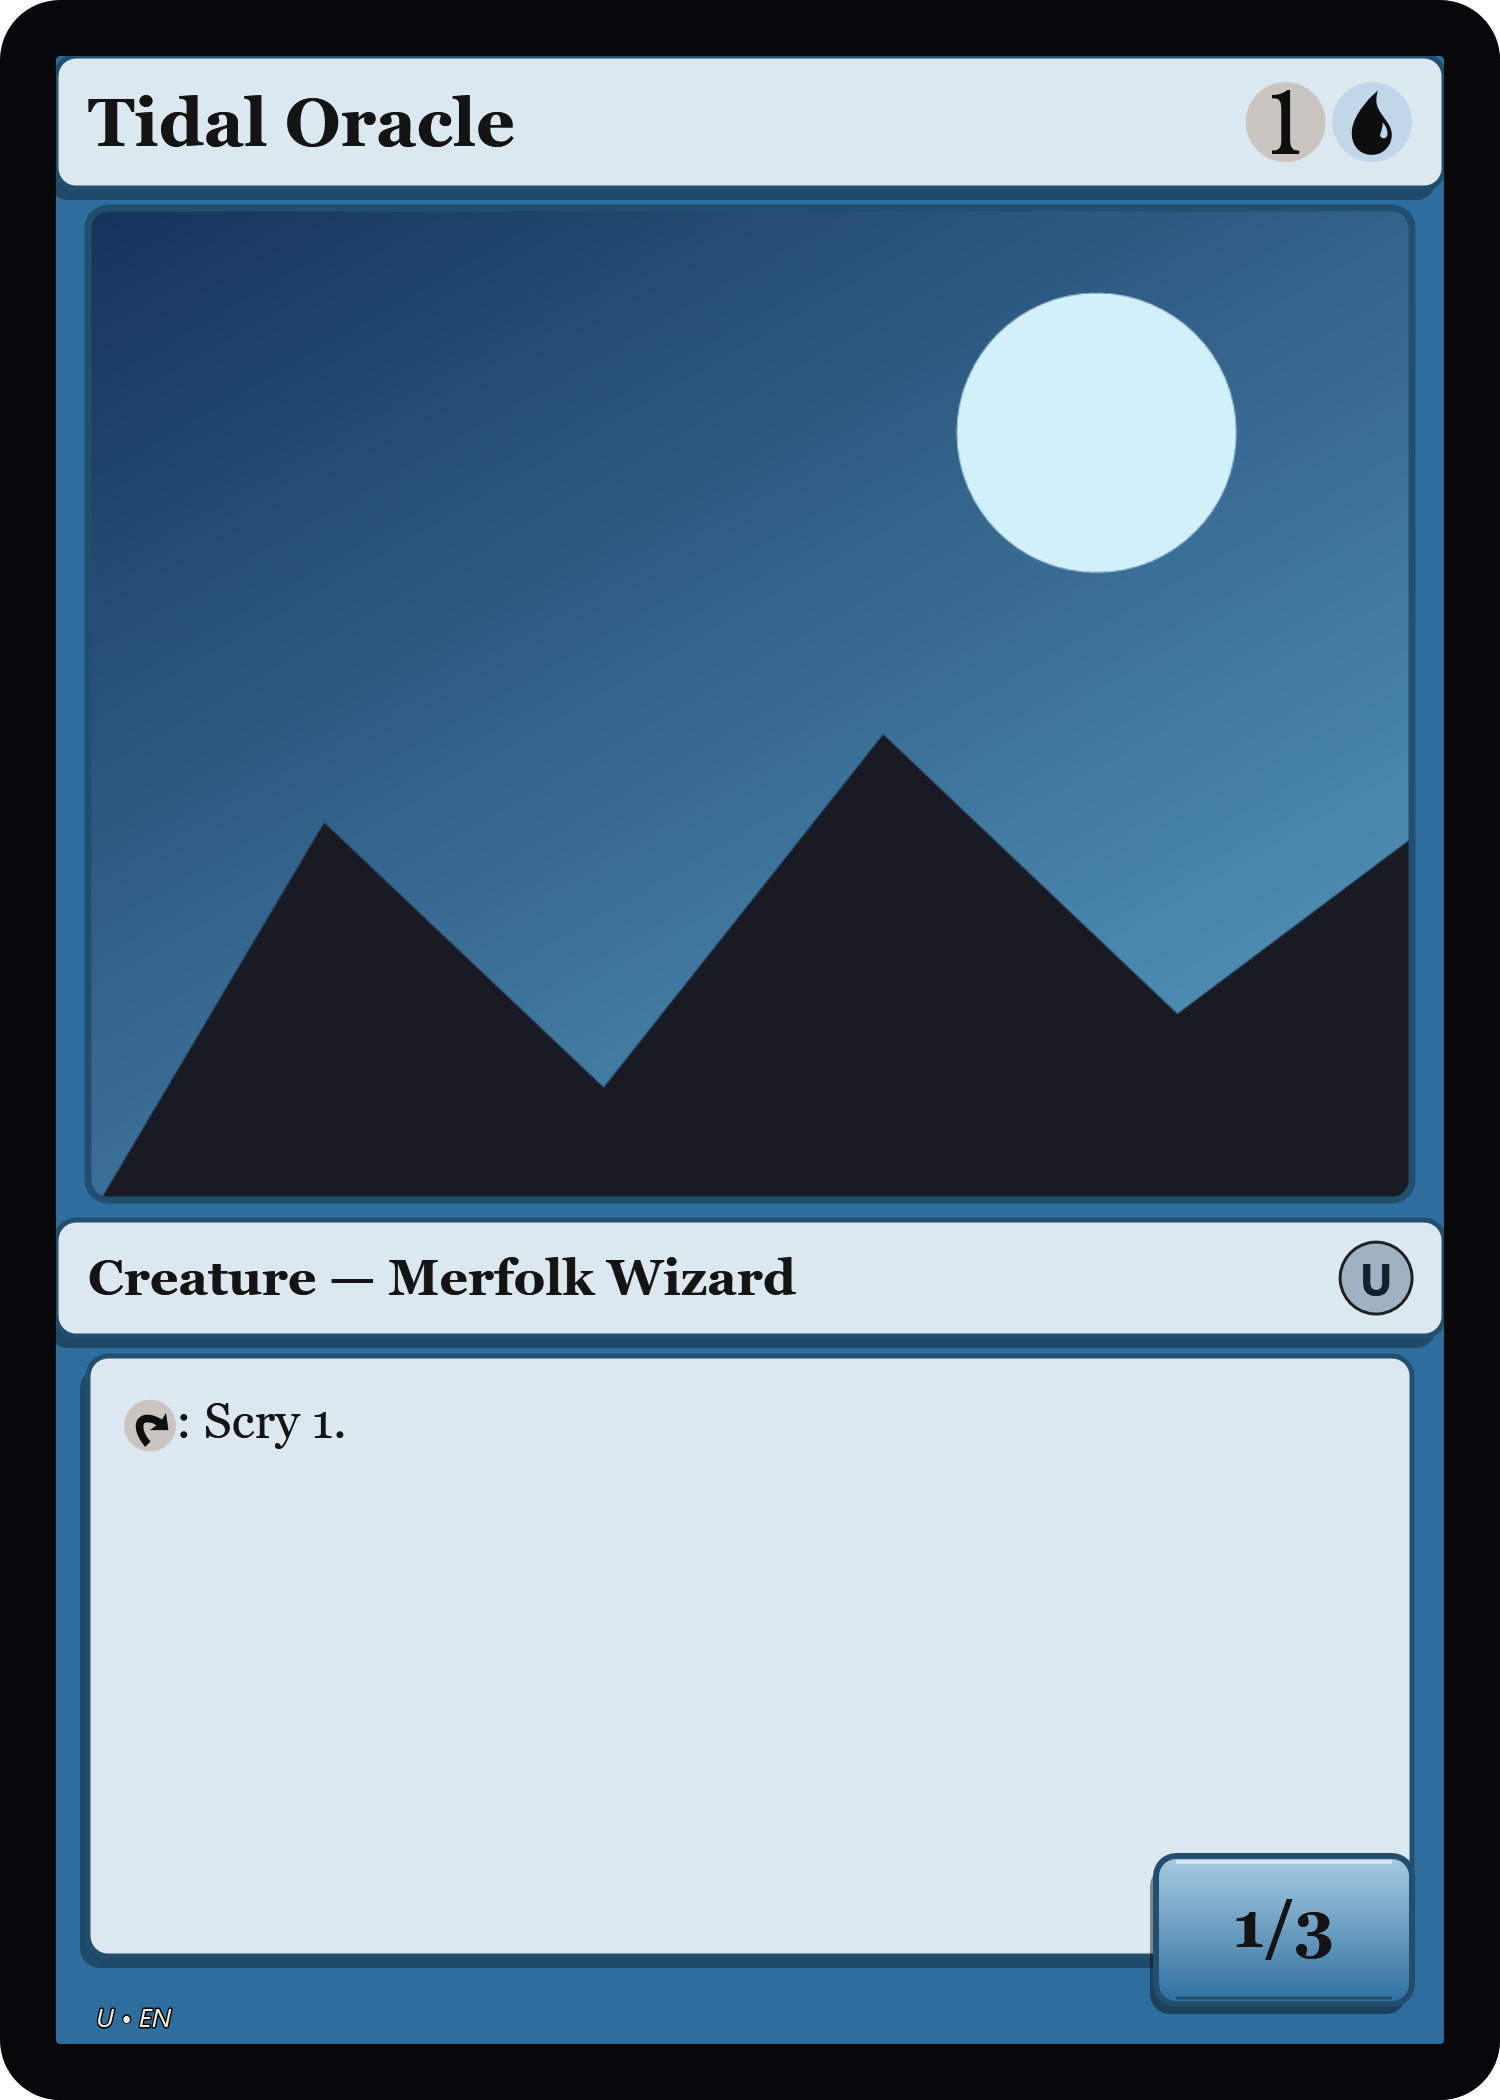
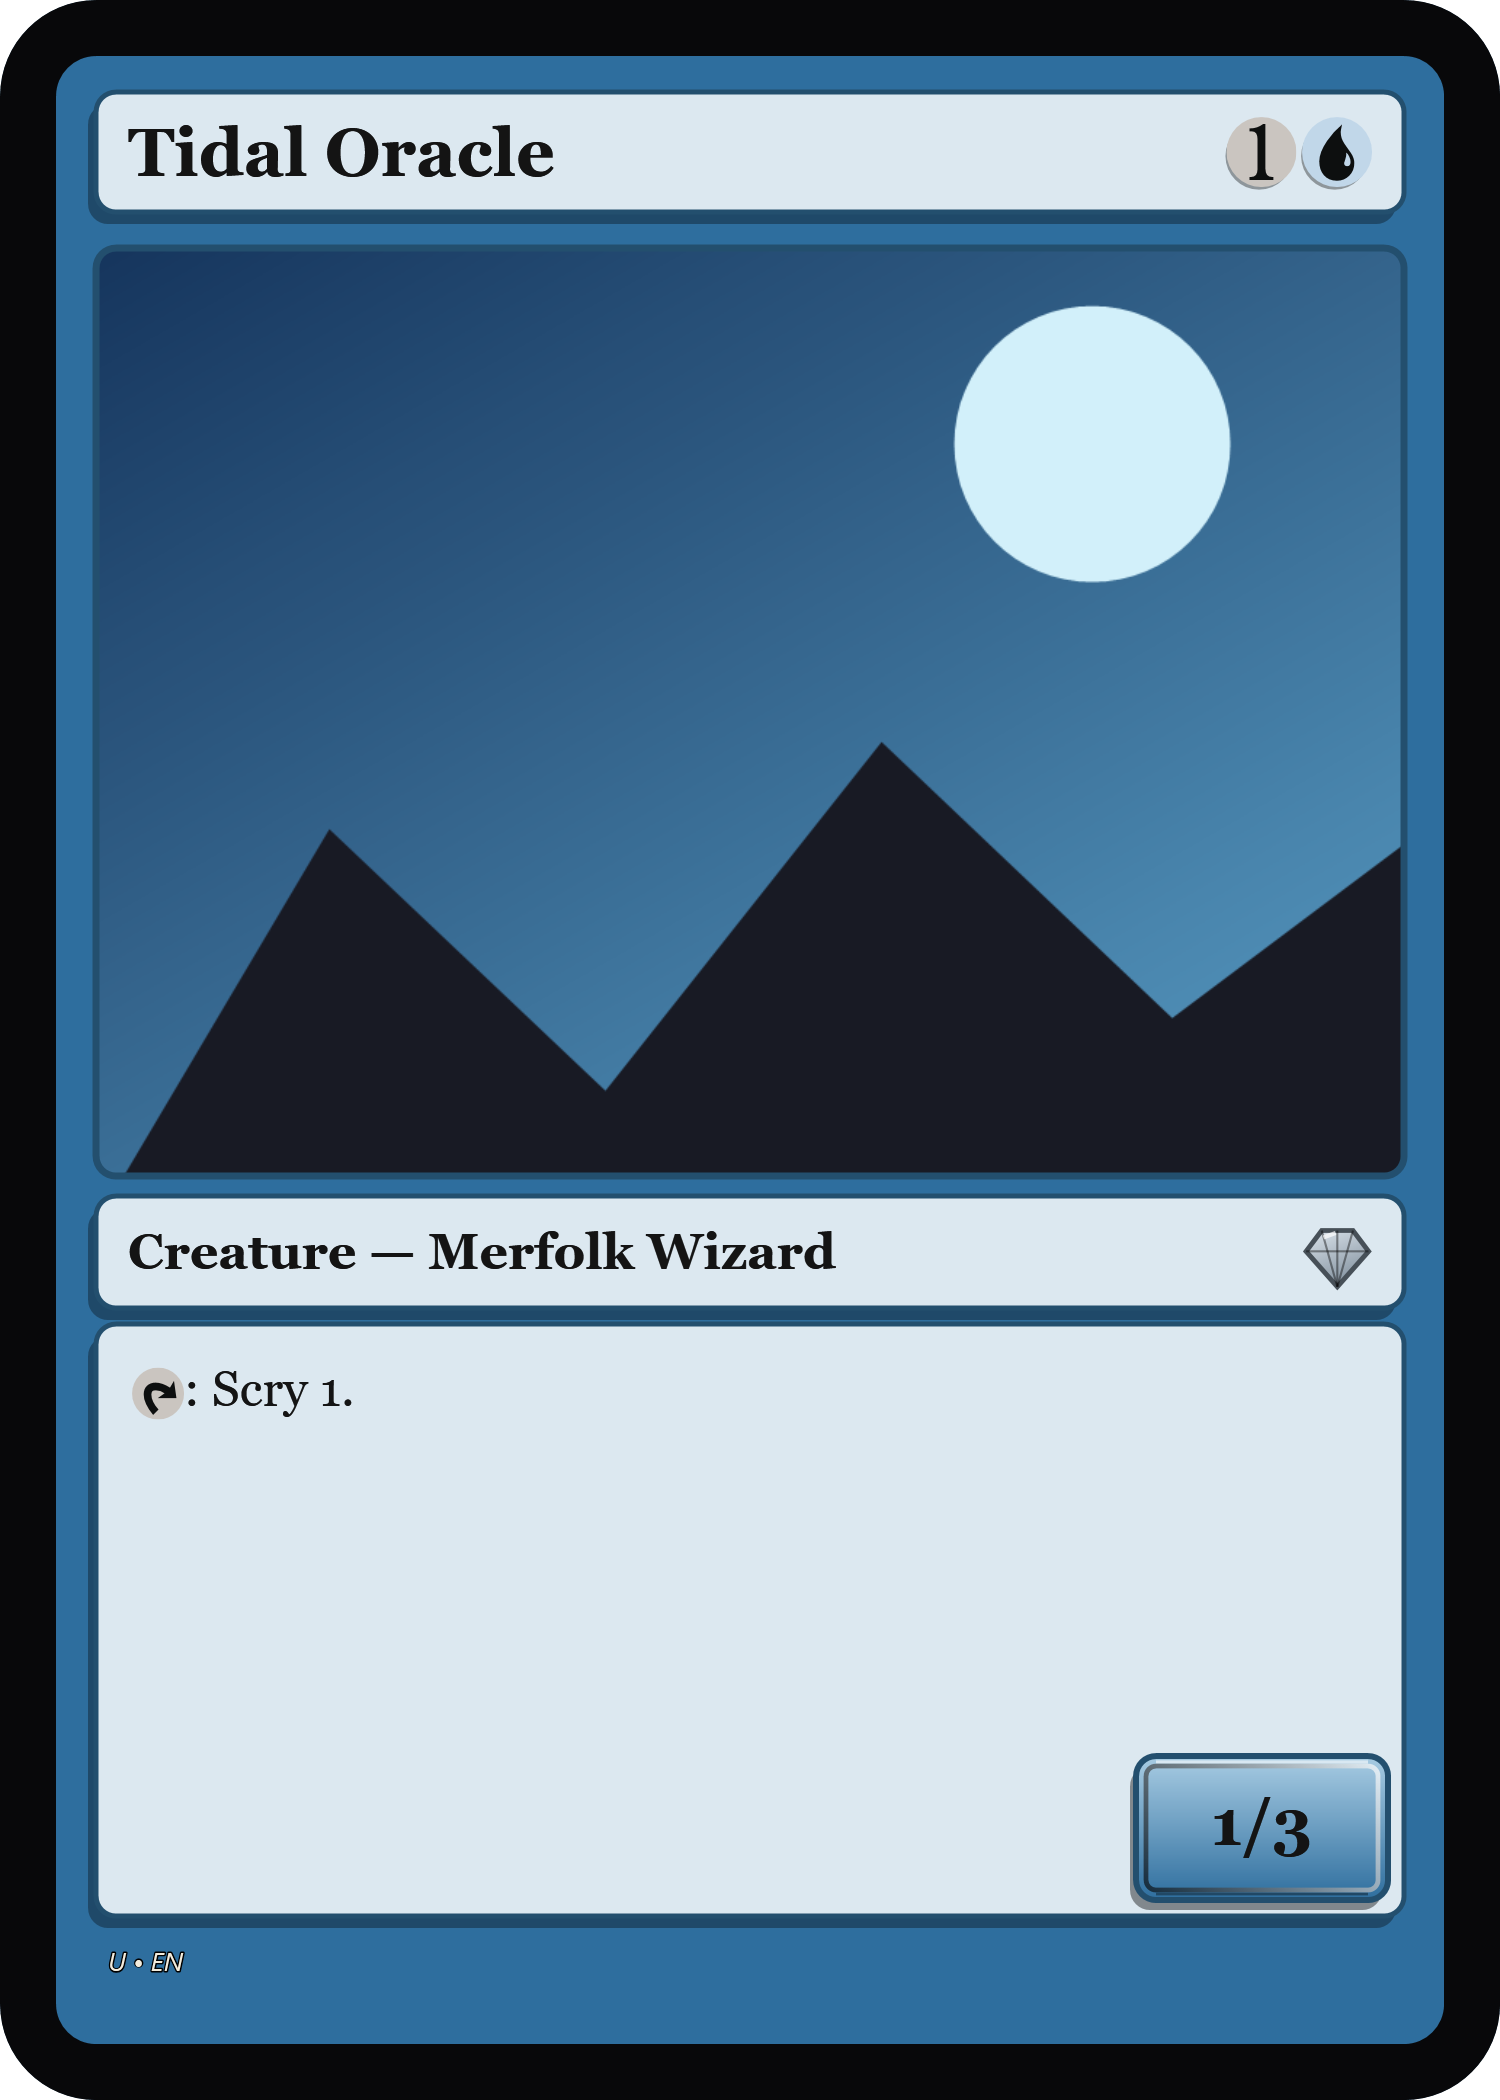
Regenerate example images with current rendering; add exe download link
- Re-rendered all example outputs (batch/sheet/app-shots/print) so the docs
  match the current pipeline (even borders, footers, loyalty badges, taper).
- README "Get it running": link to the latest Cardinator.exe on Releases.

diff --git a/README.md b/README.md
@@ -46,8 +46,10 @@ tweak. **[See them all →](docs/TEMPLATES.md#the-built-in-frames)**
 ## Get it running
 
 ### The easy way (finished exe)
-1. Copy `Cardinator.exe` anywhere (e.g. a Desktop folder) and double-click it.
-2. On first run it creates a **`CardinatorData`** folder next to the exe (templates, mana symbols,
+1. **[⬇ Download the latest `Cardinator.exe`](https://github.com/RelentlessOldMan/Cardinator/releases/latest)**
+   from the Releases page. It's a single self-contained file — no install, no .NET runtime needed.
+2. Copy it anywhere (e.g. a Desktop folder) and double-click it.
+3. On first run it creates a **`CardinatorData`** folder next to the exe (templates, mana symbols,
    saved projects, exported PNGs). Move the exe + that folder together to take everything with you.
 
 ### From source
